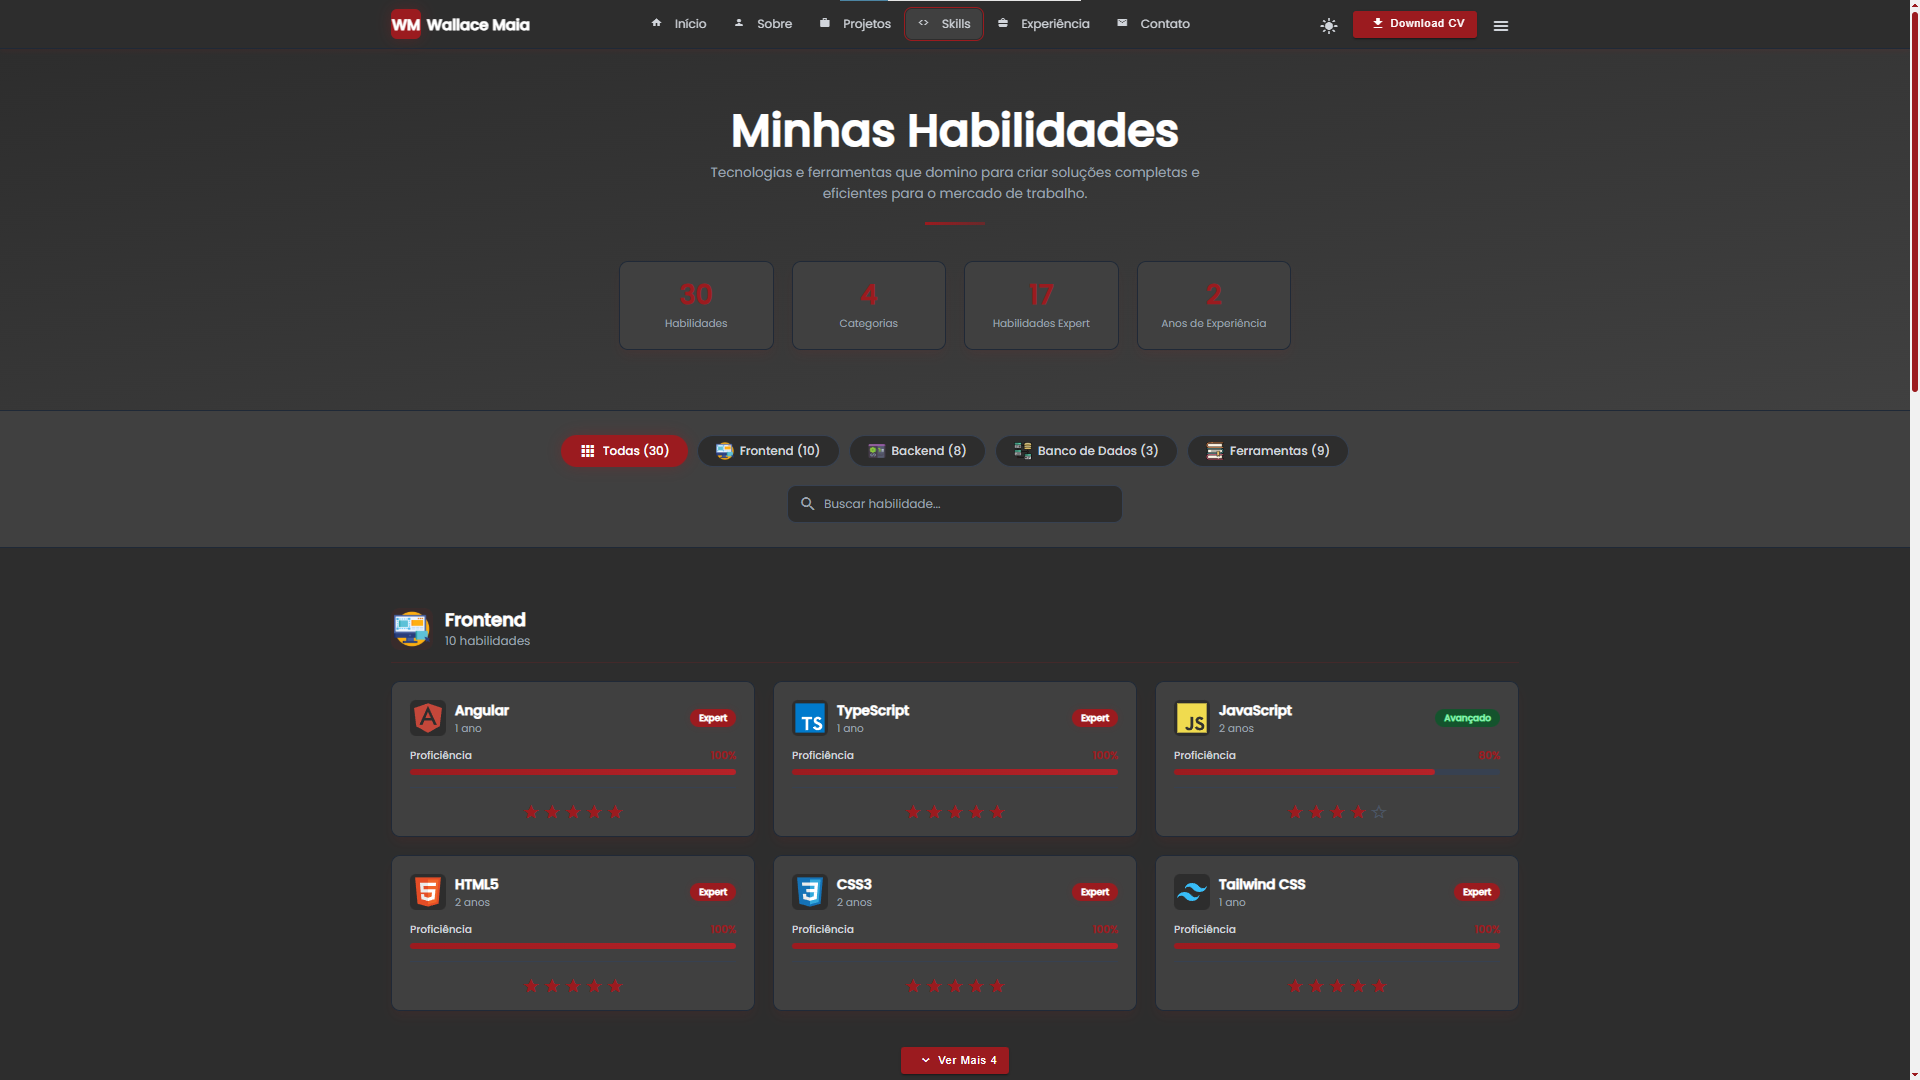
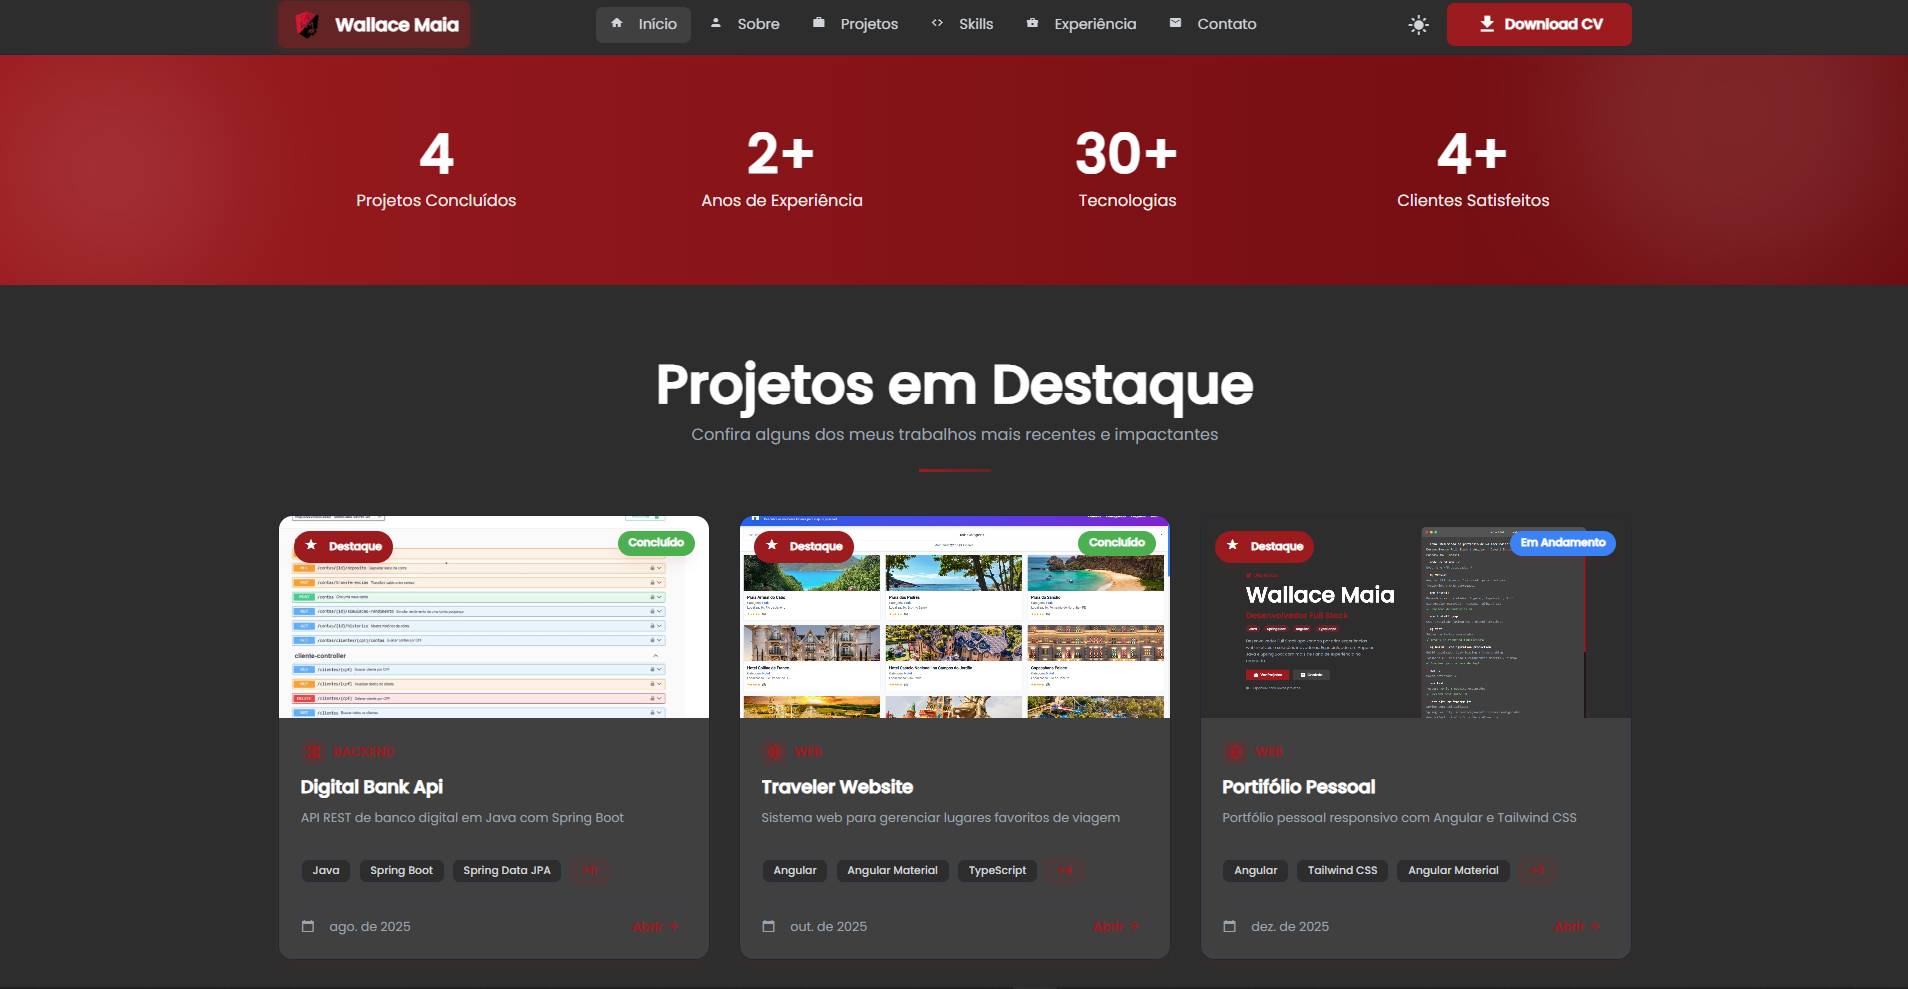
refactor: adding images to projects

diff --git a/frontend/src/environments/environment.development.ts b/frontend/src/environments/environment.development.ts
@@ -1,3 +1,3 @@
 export const environment = {
-  apiUrl: 'http://localhost:3000',
+  apiUrl: 'http://localhost:3000/api',
 };
